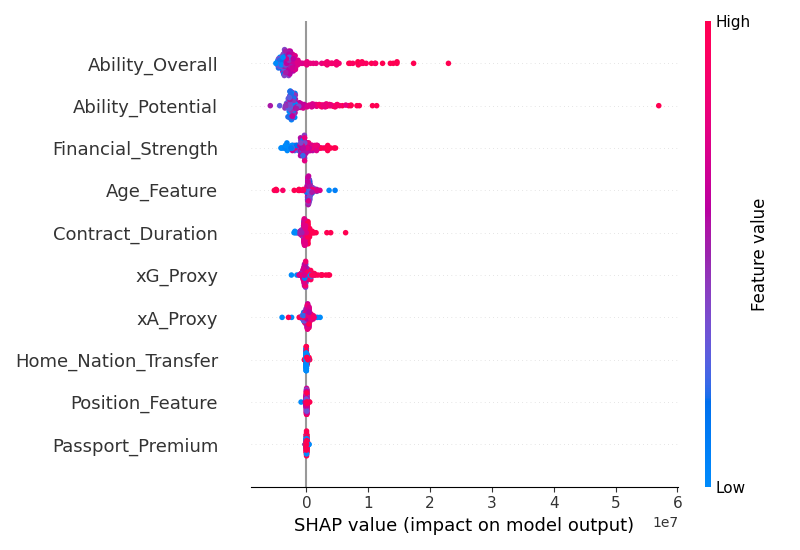
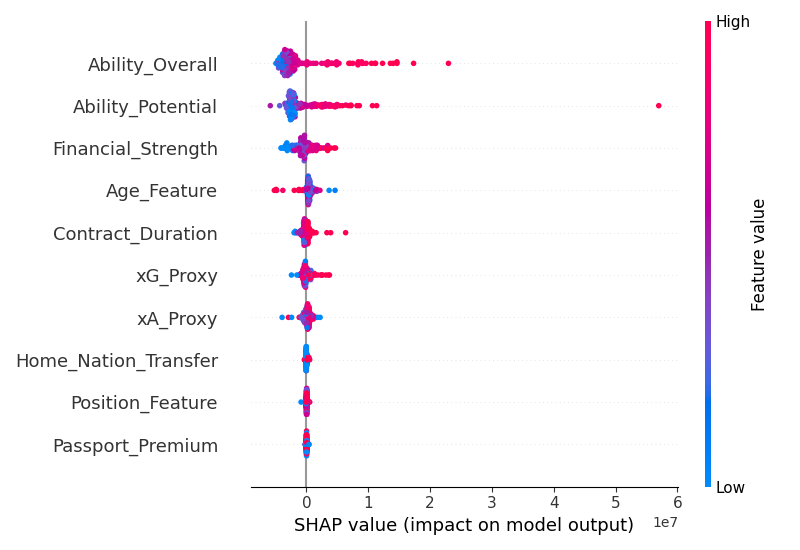
Fix player names and metadata bug in LIME plots

diff --git a/predict_10_factors.py b/predict_10_factors.py
@@ -201,27 +201,32 @@ def run_model(X, y, features, df_full):
     scenario_specs = [
         {
             'label': 'Young Brazilian Talent',
-            'query': "Name == 'Richarlison' and Season_Year == 2017",
+            'player_name': 'Richarlison',
+            'season': 2017,
             'desc': 'Young prospect moving from Brazil to the Premier League (Fluminense to Watford).'
         },
         {
             'label': 'English Domestic Move',
-            'query': "Name == 'Alex Oxlade-Chamberlain' and Season_Year == 2017",
+            'player_name': 'Alex Oxlade-Chamberlain',
+            'season': 2017,
             'desc': 'English player moving domestically between top clubs (Arsenal to Liverpool).'
         },
         {
             'label': 'Superstar Juggernaut',
-            'query': "Name == 'Paul Pogba' and Season_Year == 2016",
+            'player_name': 'Paul Pogba',
+            'season': 2016,
             'desc': 'Marquee signing with world-record fee context (Juve to Man Utd).'
         },
         {
             'label': 'Veteran Superstar',
-            'query': "Name == 'Cristiano Ronaldo' and Season_Year == 2018",
+            'player_name': 'Cristiano Ronaldo',
+            'season': 2018,
             'desc': 'Elite veteran (33) moving for a high fee to a top league (Real to Juve).'
         },
         {
             'label': 'Mid-tier Competitive',
-            'query': "Name == 'Daley Blind' and Season_Year == 2018",
+            'player_name': 'Daley Blind',
+            'season': 2018,
             'desc': 'Prime-age established player moving between competitive leagues (Man Utd to Ajax).'
         }
     ]
@@ -239,14 +244,20 @@ def run_model(X, y, features, df_full):
     print("10. Home_Nation_Transfer: [0 or 1] 1 if transferring within home country league system.")
 
     for spec in scenario_specs:
-        candidates = df_full.query(spec['query'])
-        if candidates.empty:
-            # Relax query if no candidates
-            candidates = df_full.head(5) # fallback
+        # Use boolean indexing for better reliability than query()
+        mask = (df_full['Name'] == spec['player_name']) & (df_full['Season_Year'] == spec['season'])
+        candidates = df_full[mask]
         
-        idx = candidates.index[0]
-        row = df_full.loc[idx][features].values.astype(float)
-        exp = explainer_lime.explain_instance(row, model.predict, num_features=10)
+        if candidates.empty:
+            # Fallback if specific player not found (though they should be)
+            candidates = df_full.head(1)
+        
+        # Pick the first matching row and its data
+        target_row = candidates.iloc[0]
+        row_values = target_row[features].values.astype(float)
+        
+        # LIME Explanation
+        exp = explainer_lime.explain_instance(row_values, model.predict, num_features=10)
         
         # Nice Plot Styling
         lime_df = pd.DataFrame(exp.as_list(), columns=['feature', 'weight'])
@@ -257,8 +268,8 @@ def run_model(X, y, features, df_full):
         ax.barh(lime_df['feature'], lime_df['weight'], color=colors, alpha=0.85)
         ax.axvline(0, color='black', linewidth=0.8, linestyle='--')
         
-        pred_val = model.predict(row.reshape(1, -1))[0]
-        actual_val = df_full.loc[idx]['Transfer_fee']
+        pred_val = model.predict(row_values.reshape(1, -1))[0]
+        actual_val = target_row['Transfer_fee']
         
         ax.set_title(f"{spec['label']} | Pred €{pred_val/1e6:.2f}M | Actual €{actual_val/1e6:.2f}M", 
                      fontsize=12, fontweight='bold')
@@ -266,7 +277,10 @@ def run_model(X, y, features, df_full):
         ax.grid(axis='x', alpha=0.3)
         
         # Metadata box
-        metadata = f"{spec['desc']}\nPlayer: {df_full.loc[idx]['Name']}\nNation: {df_full.loc[idx]['nationality']}\nAge: {df_full.loc[idx]['age']}"
+        player_name = target_row['Name']
+        nation = target_row['nationality']
+        age = target_row['age']
+        metadata = f"{spec['desc']}\nPlayer: {player_name}\nNation: {nation}\nAge: {age}"
         ax.text(0.98, 0.05, metadata, transform=ax.transAxes, ha='right', va='bottom',
                 fontsize=9, bbox=dict(boxstyle='round', facecolor='white', alpha=0.9, edgecolor='#cccccc'))
         
@@ -274,7 +288,7 @@ def run_model(X, y, features, df_full):
         fname = f"lime_{spec['label'].lower().replace(' ', '_')}.png"
         plt.savefig(f"plots/{fname}")
         plt.close()
-        print(f"Generated plot: {fname}")
+        print(f"Generated plot: {fname} for {player_name}")
 
     return model
 